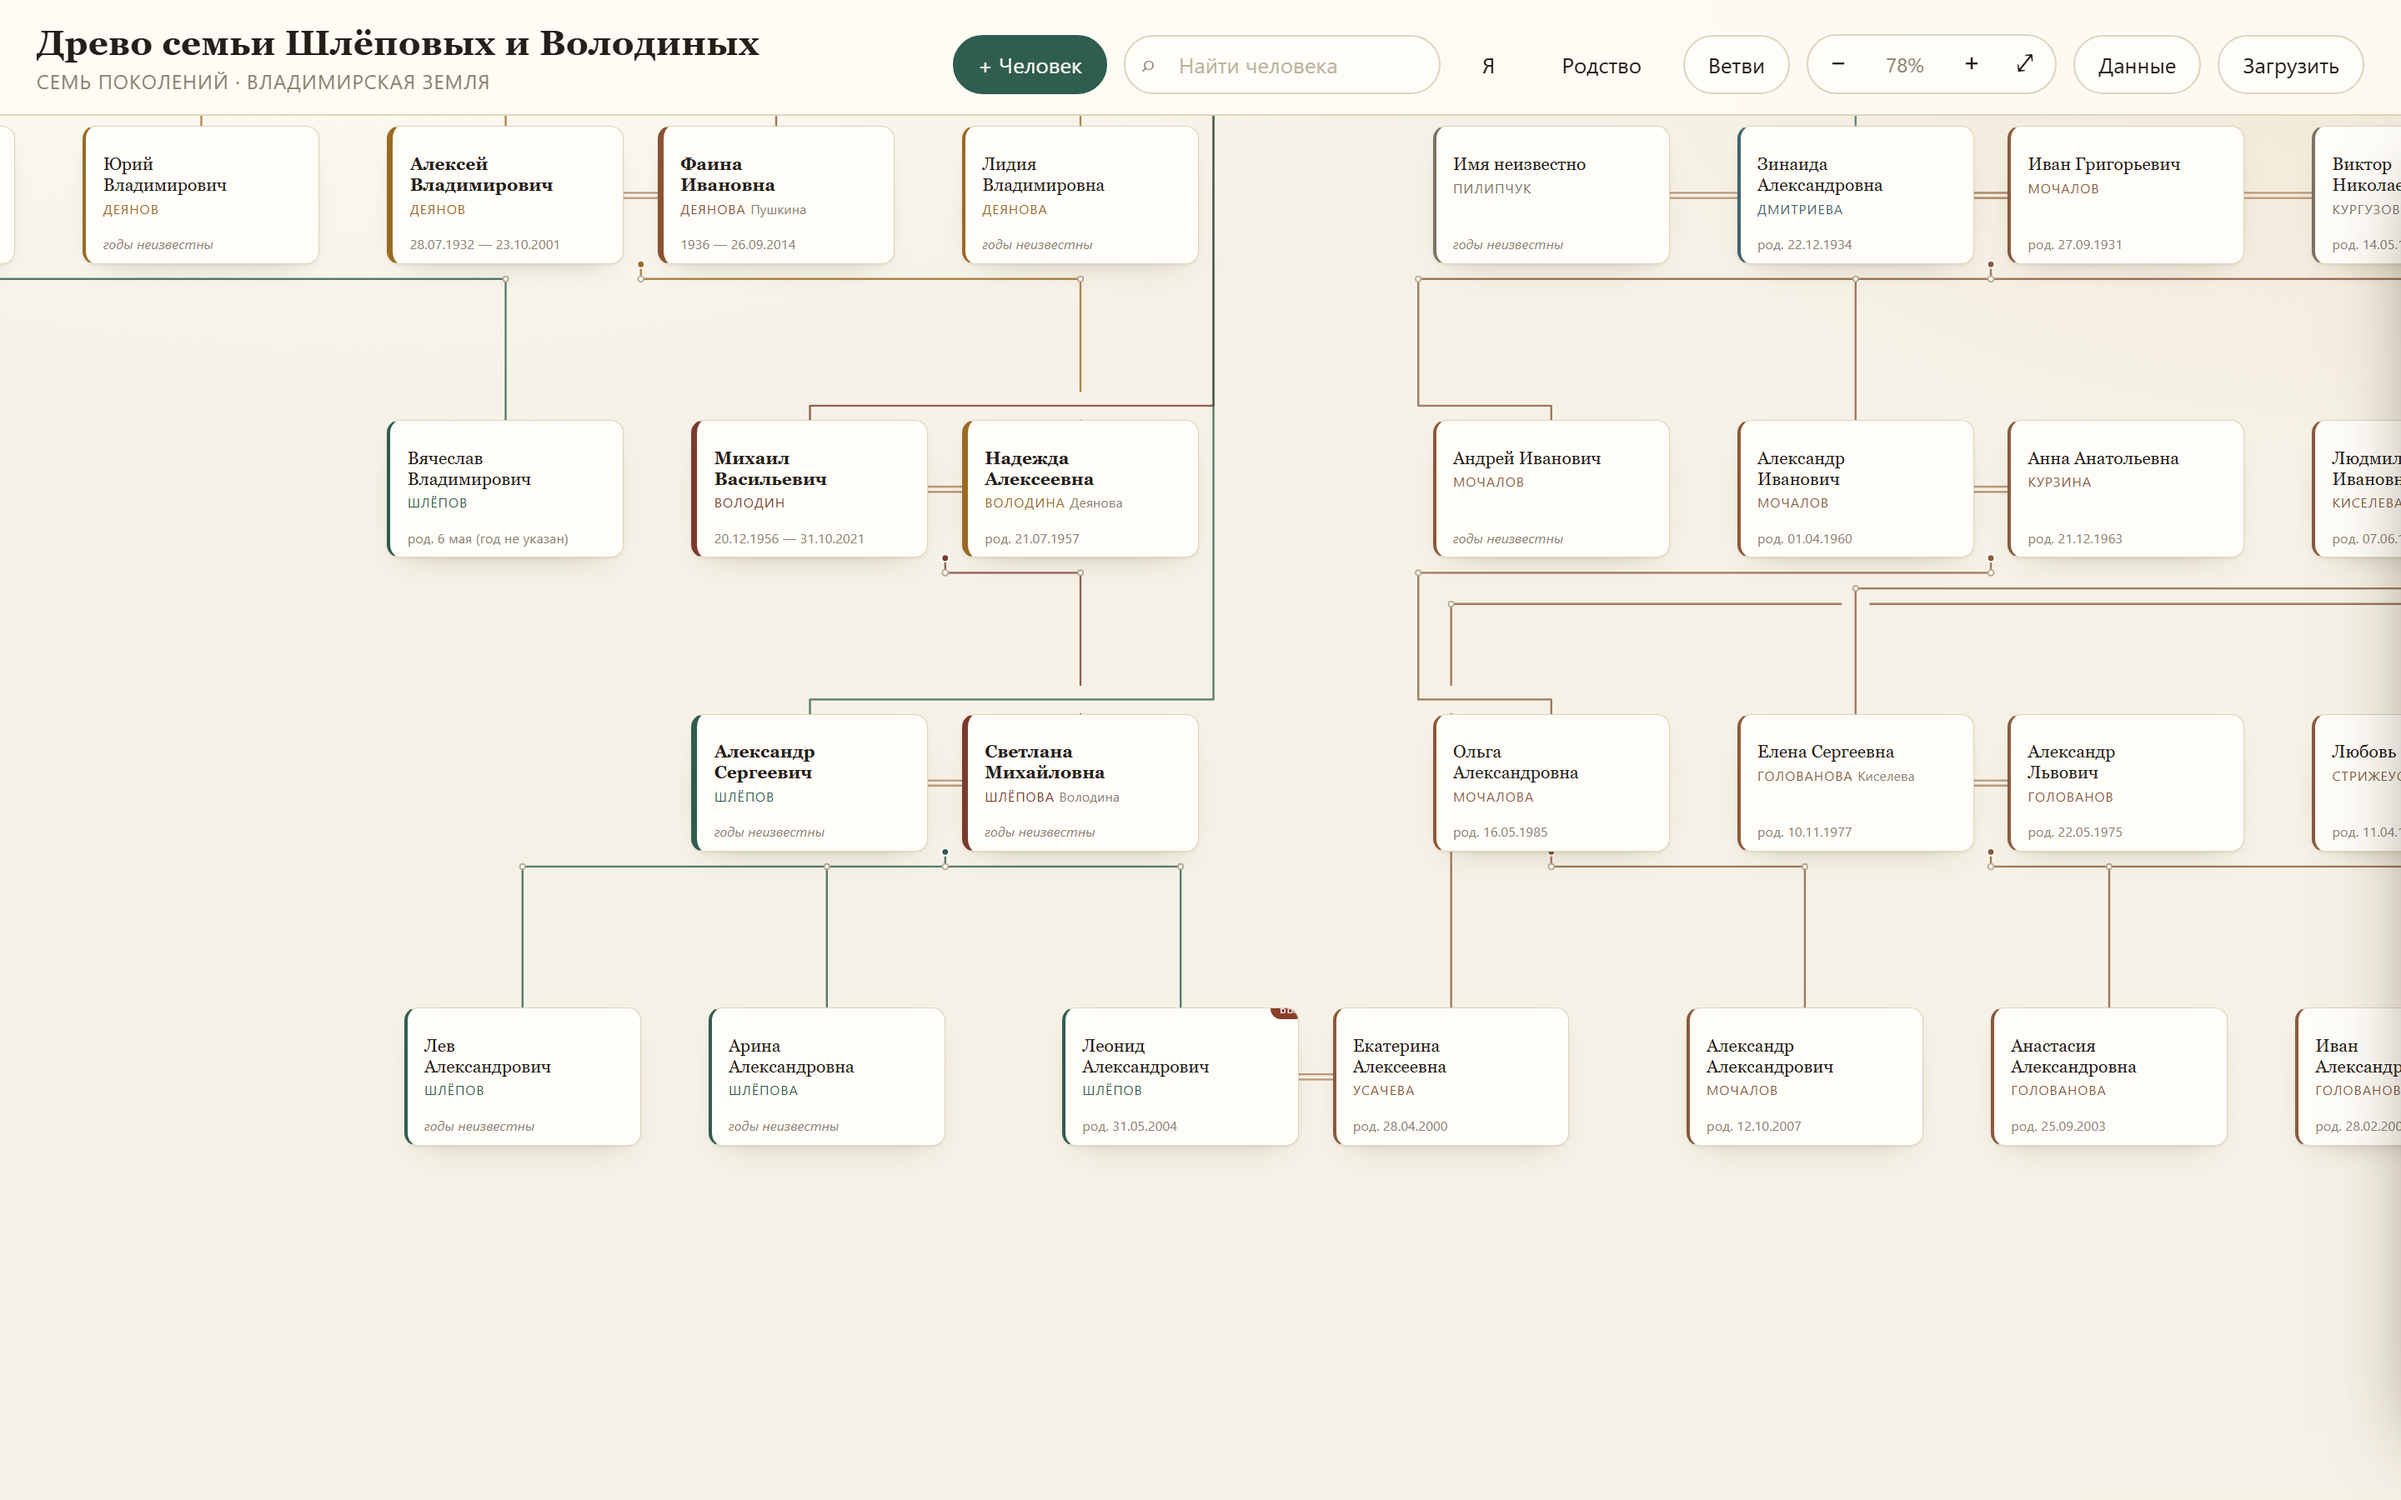
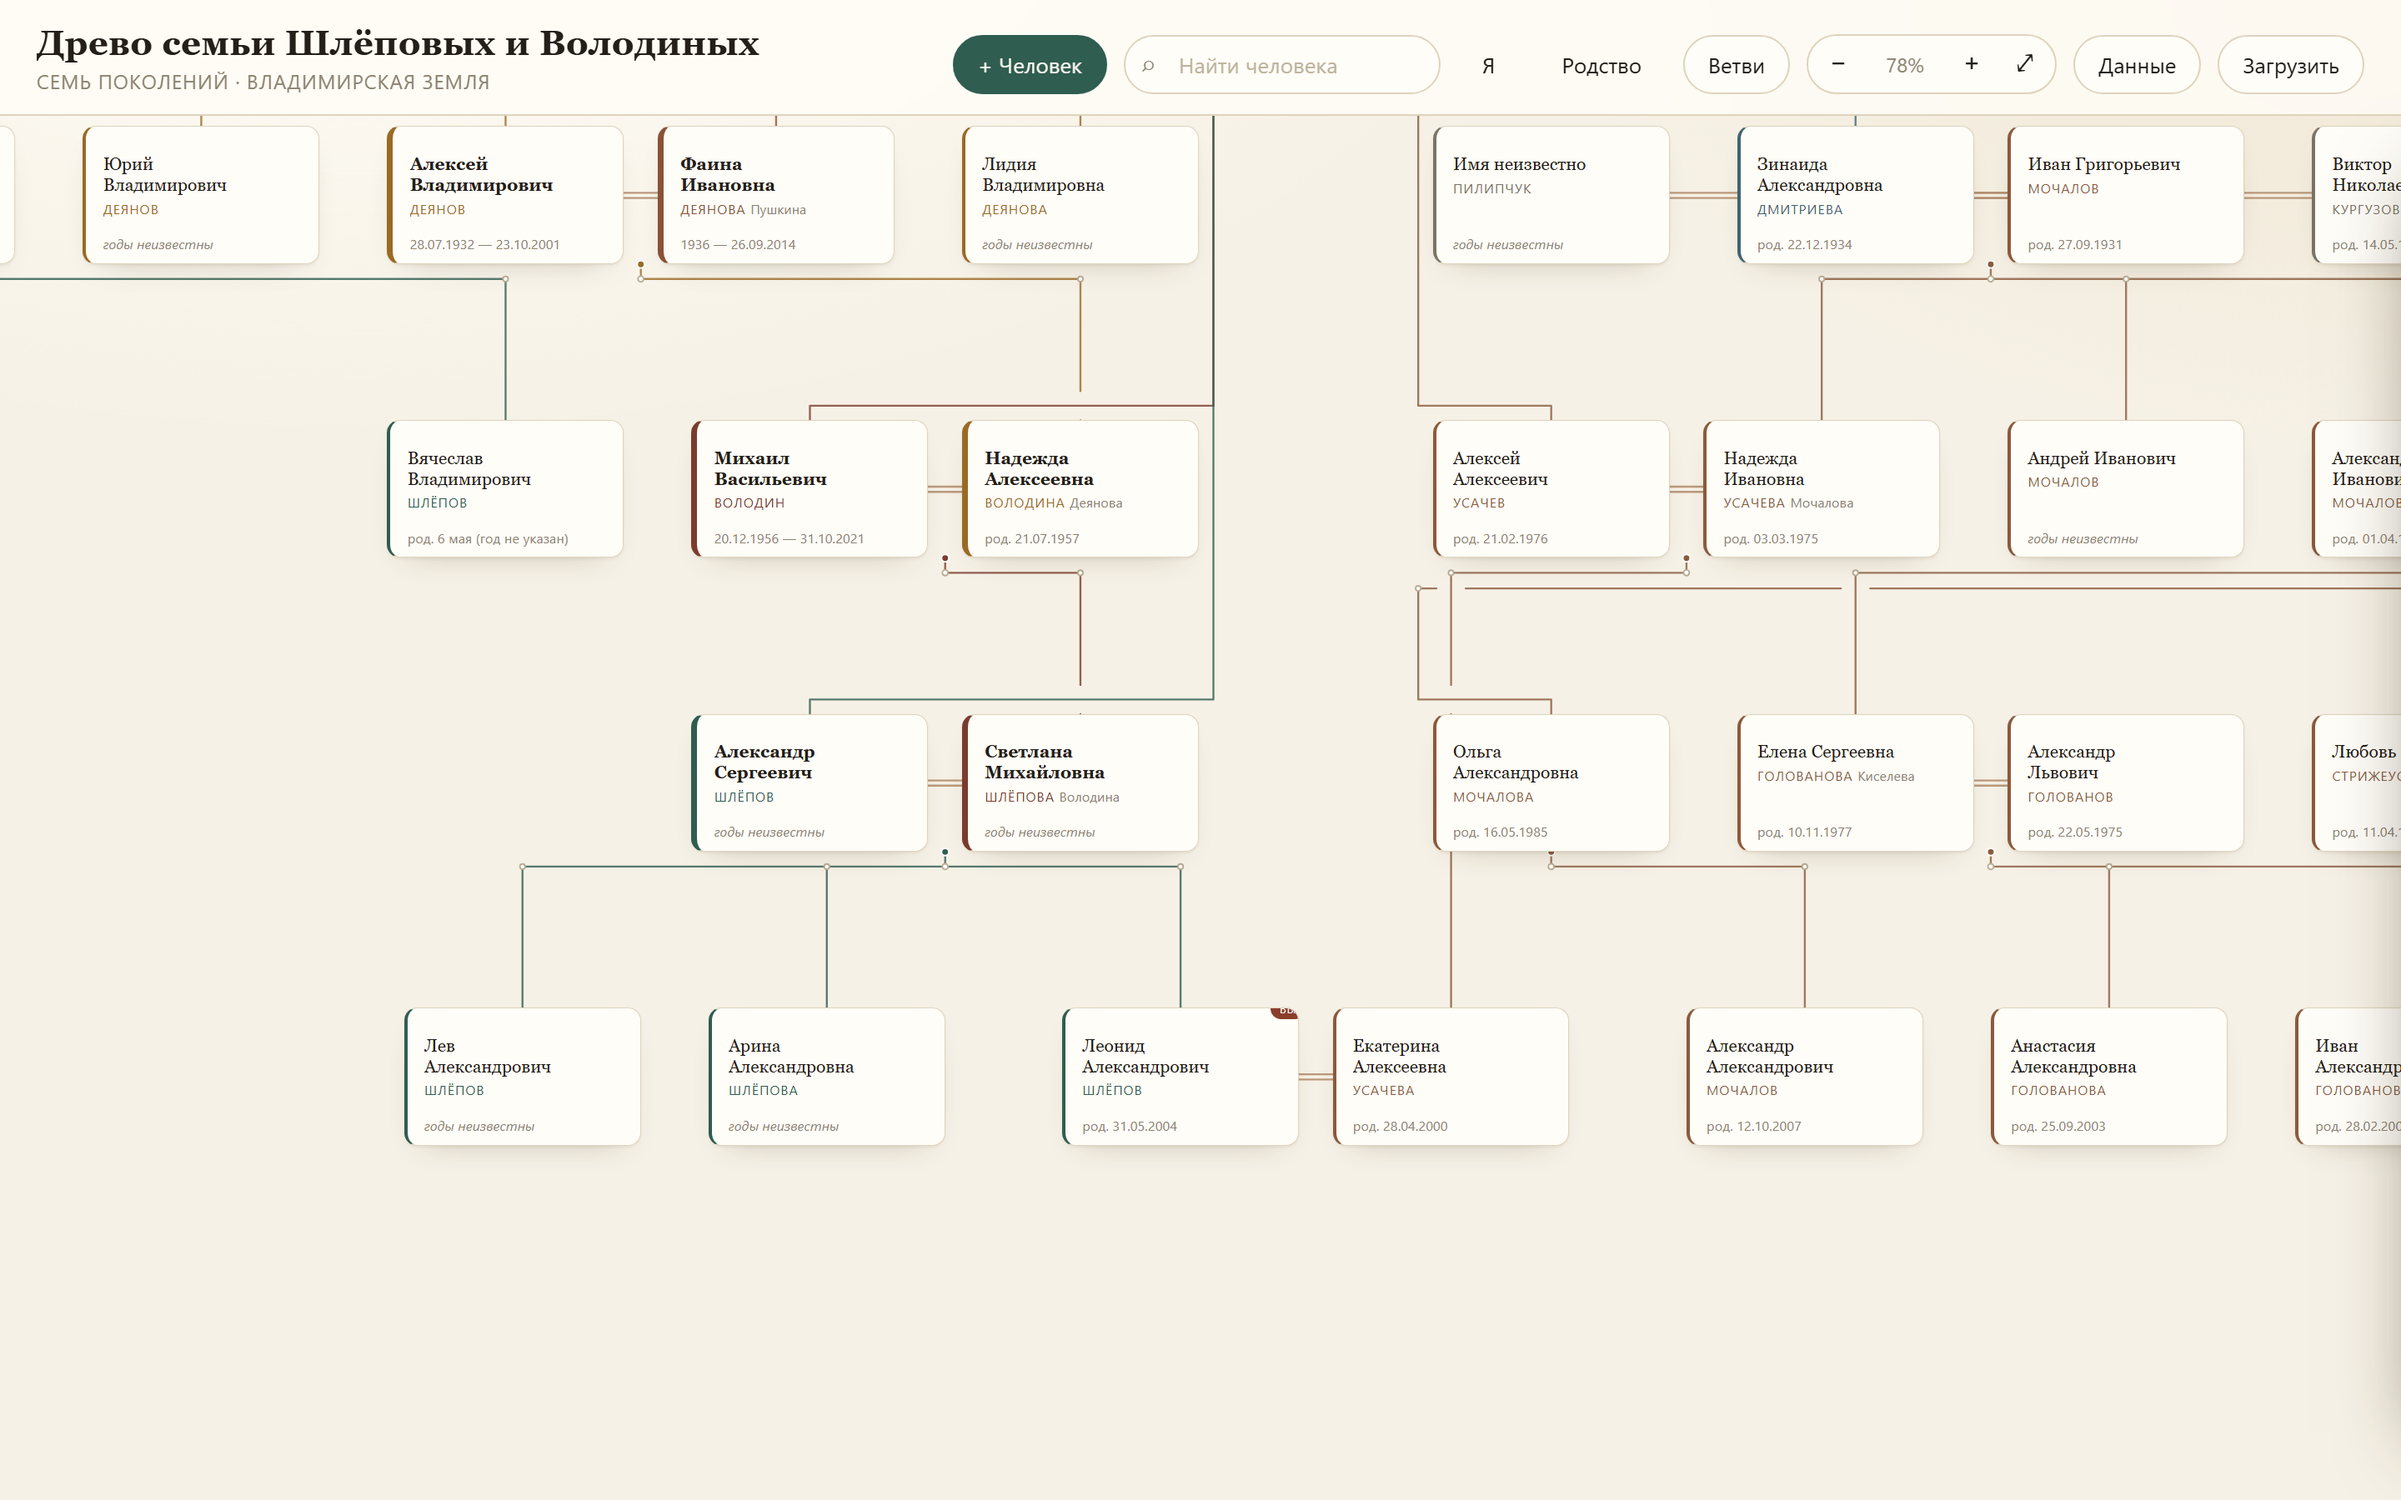
Дед и бабушка Екатерины по отцовской линии
Со слов Екатерины (ноябрь 2026), чего нет ни в одном документе:
- Алексей Михайлович Усачёв — дед, муж Любови Николаевны;
- Любовь Николаевна Усачёва — мать Алексея Алексеевича и Олега;
- Олег Усачёв — родной брат Алексея, сын той же пары; получил отчество
  Алексеевич.

Отчество отца сходится с «Романовы.doc» («Алексей Алексеевич Усачёв»):
деда зовут Алексей, поэтому править документ не пришлось.

Итог: 208 человек, 64 союза. tools/check-lines.js: 0 нарушений,
0 пересечений. Превью обновлены.

diff --git a/data.js b/data.js
@@ -493,22 +493,11 @@ window.FAMILY = {
       sources: ['Список гостей на свадьбу (2026)', 'Романовы.doc']
     },
     {
-      id: 'usacheva-lyubov', first: 'Любовь', middle: 'Николаевна', last: 'Усачева',
-      sex: 'f', branch: 'usachev',
-      bio: 'Бабушка невесты, кондитер.',
-      note: 'Точная линия родства в списке гостей не указана; по фамилии — со стороны отца невесты.',
-      facts: [
-        ['Профессия', 'кондитер'],
-        ['Традиция', 'пекла торты на все семейные праздники; испекла торт и на свадьбу внучки']
-      ],
-      sources: ['Список гостей на свадьбу (2026)']
-    },
-    {
-      id: 'usachev-oleg', first: 'Олег', middle: '', last: 'Усачев',
+      id: 'usachev-oleg', first: 'Олег', middle: 'Алексеевич', last: 'Усачев',
       sex: 'm', branch: 'usachev',
-      bio: 'Брат Алексея Алексеевича Усачева, дядя невесты.',
-      note: 'В списке гостей его самого нет — известен как отец Натальи и Ани.',
-      sources: ['Список гостей на свадьбу (2026)']
+      bio: 'Брат Алексея Алексеевича Усачева, дядя невесты. Сын Любови Николаевны и Алексея Михайловича Усачёва.',
+      note: 'В списке гостей его самого нет — известен как отец Натальи и Ани. Показан сыном той же пары, что и Алексей, — по рассказу Екатерины (ноябрь 2026).',
+      sources: ['Список гостей на свадьбу (2026)', 'Рассказ Екатерины Усачёвой (2026)']
     },
     {
       id: 'usacheva-natalya', first: 'Наталья', middle: '', last: 'Усачева',
@@ -1596,6 +1585,26 @@ window.FAMILY = {
       note: 'Умер; дата не указана.',
       sources: ['Романовы.doc']
     },
+    /* ---------- Усачёвы: дед и бабушка Екатерины по отцовской линии ---------- */
+    {
+      id: 'usachev-alexey-mikhailovich', first: 'Алексей', middle: 'Михайлович', last: 'Усачев',
+      sex: 'm', branch: 'usachev',
+      bio: 'Дед Екатерины Алексеевны по отцовской линии. Муж Любови Николаевны, отец Алексея и Олега.',
+      note: 'Год рождения и дата смерти в записях не сохранились. Известен по рассказу Екатерины (ноябрь 2026); в списке гостей на свадьбу его не было.',
+      facts: [['Семья', 'жена Любовь Николаевна, сыновья Алексей и Олег']],
+      sources: ['Рассказ Екатерины Усачёвой (2026)']
+    },
+    {
+      id: 'usacheva-lyubov', first: 'Любовь', middle: 'Николаевна', last: 'Усачева',
+      sex: 'f', branch: 'usachev',
+      bio: 'Бабушка Екатерины Алексеевны по отцовской линии, кондитер. Жена Алексея Михайловича Усачёва, мать Алексея и Олега.',
+      note: 'В списке гостей линия родства указана не была; по рассказу Екатерины (ноябрь 2026) — мать Алексея Алексеевича и Олега.',
+      facts: [
+        ['Профессия', 'кондитер'],
+        ['Традиция', 'пекла торты на все семейные праздники; испекла торт и на свадьбу внучки']
+      ],
+      sources: ['Список гостей на свадьбу (2026)', 'Рассказ Екатерины Усачёвой (2026)']
+    },
   ],
 
   unions: [
@@ -1635,6 +1644,8 @@ window.FAMILY = {
       children: [], note: 'Брак 24.11.2026.' },
     { id: 'u-usachev', partners: ['usachev-alexey', 'usacheva-nadezhda'],
       children: ['usacheva-ekaterina'] },
+    { id: 'u-usachev-mikhailovich', partners: ['usachev-alexey-mikhailovich', 'usacheva-lyubov'],
+      children: ['usachev-alexey', 'usachev-oleg'] },
     { id: 'u-usachev-oleg', partners: ['usachev-oleg'],
       children: ['usacheva-natalya', 'usacheva-anya'], type: 'single' },
     { id: 'u-kiselev', partners: ['kiseleva-lyudmila', 'kiselev-sergey'],

diff --git a/PROJECT_MAP.md b/PROJECT_MAP.md
@@ -110,9 +110,9 @@ node --check layout.js
 node -e "global.window=global;require('./data.js');require('./layout.js');console.log(window.FamilyLayout.compute(window.FAMILY).cards.length)"
 ```
 
-Ожидается 207 карточек (83 из семейных файлов и списка гостей + 124 добавлены в ноябре
+Ожидается 208 карточек (83 из семейных файлов и списка гостей + 124 добавлены в ноябре
 2026 года по документам `sources/Дмитриевы.doc` и `sources/Романовы.doc`: ветви Дмитриевых,
-Романовых и Ломовых). Скриншот без браузера:
+Романовых и Ломовых, + 1 дед по отцовской линии Екатерины). Скриншот без браузера:
 
 ```powershell
 & "C:\Program Files (x86)\Microsoft\Edge\Application\msedge.exe" --headless=new `
@@ -136,3 +136,7 @@ node -e "global.window=global;require('./data.js');require('./layout.js');consol
 Word: 2098 и 3568 знаков — ровно столько, сколько хранит документ, без сносок
 и колонтитулов. Пробелы, знаки «?» и опечатки источника сохранены: спорное вынесено
 в поле `note`, а не «исправлено» молча.
+
+Родители отца Екатерины — Алексей Михайлович Усачёв и Любовь Николаевна Усачёва —
+в документах отсутствуют: они записаны со слов Екатерины (ноябрь 2026). Отсюда
+и отчество Алексея Алексеевича сходится с «Романовы.doc»: деда зовут Алексей.
